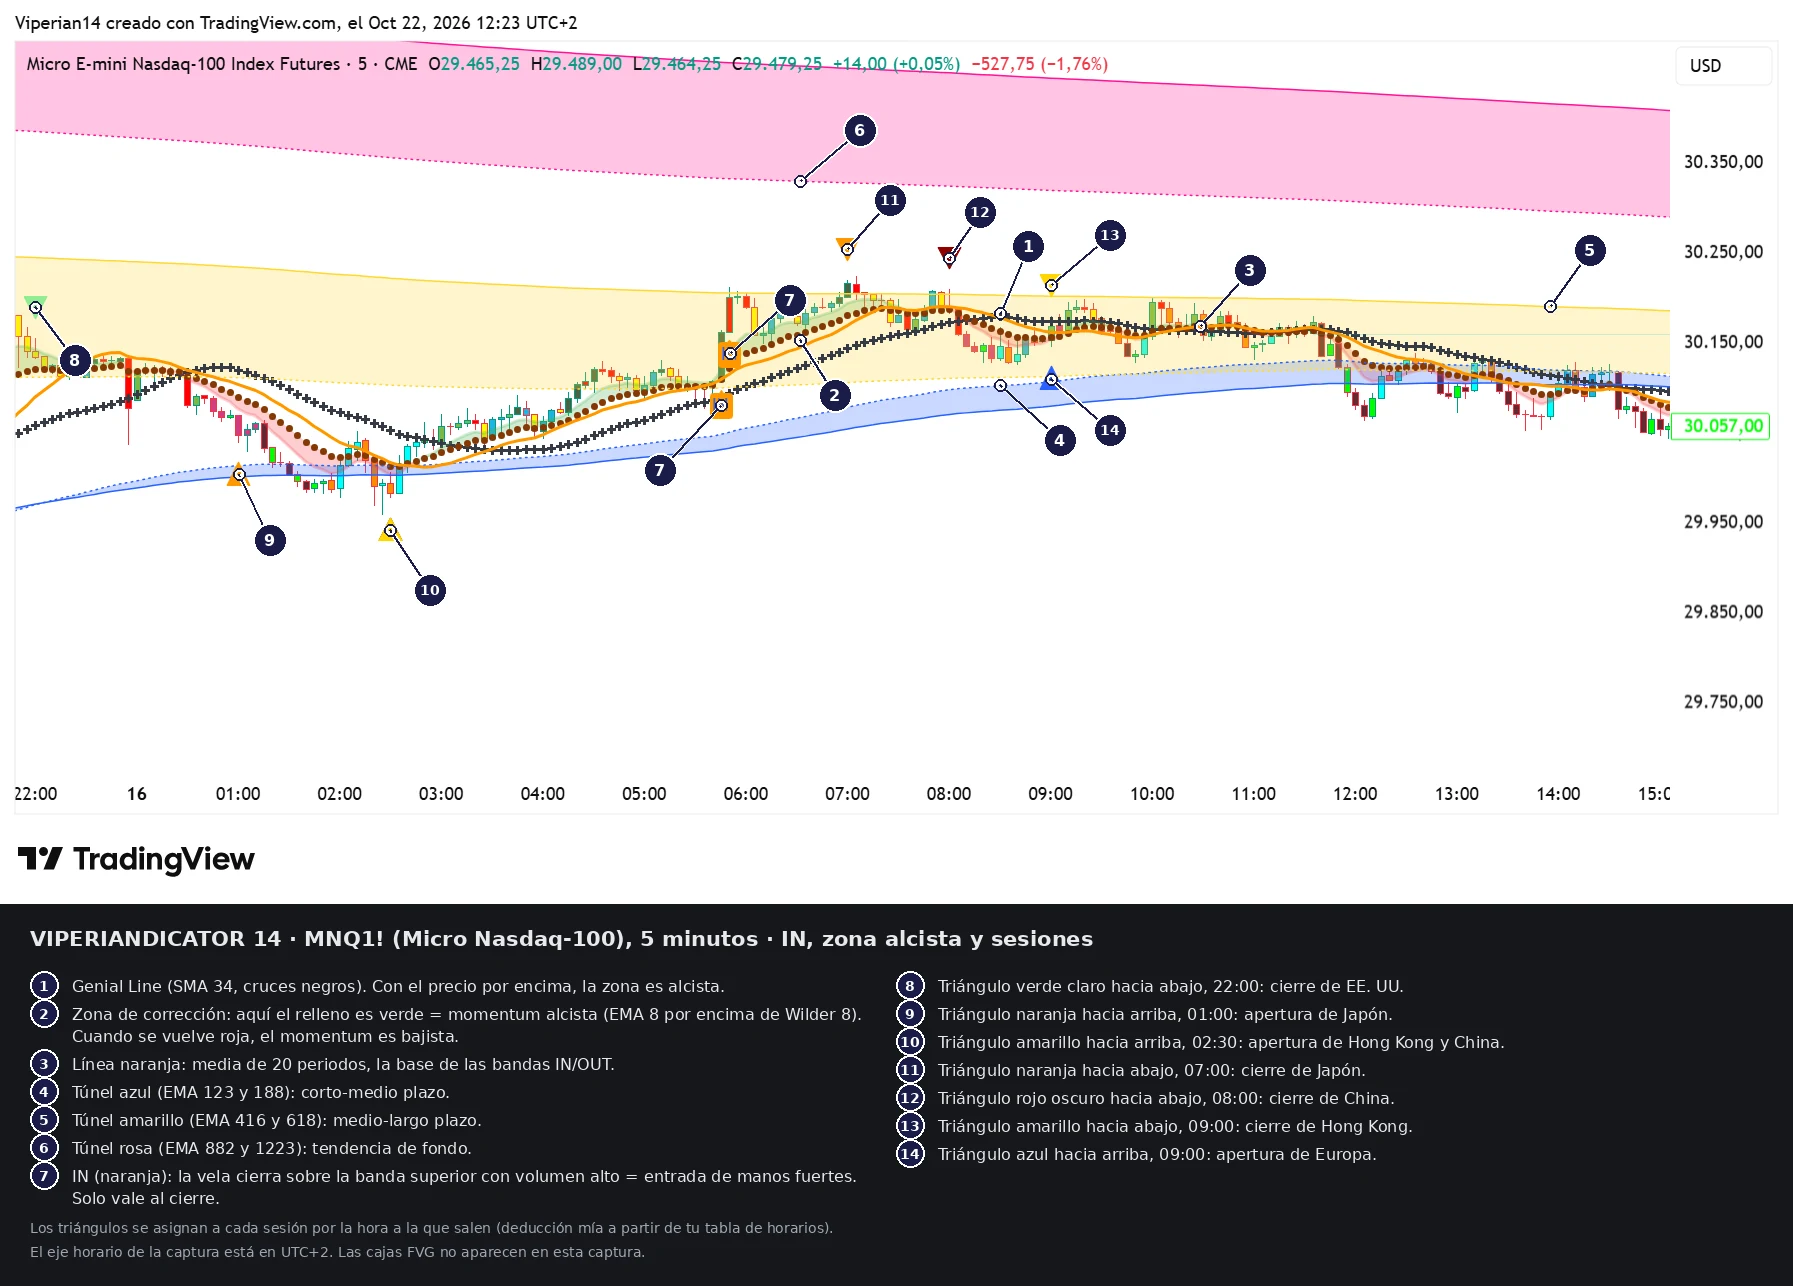
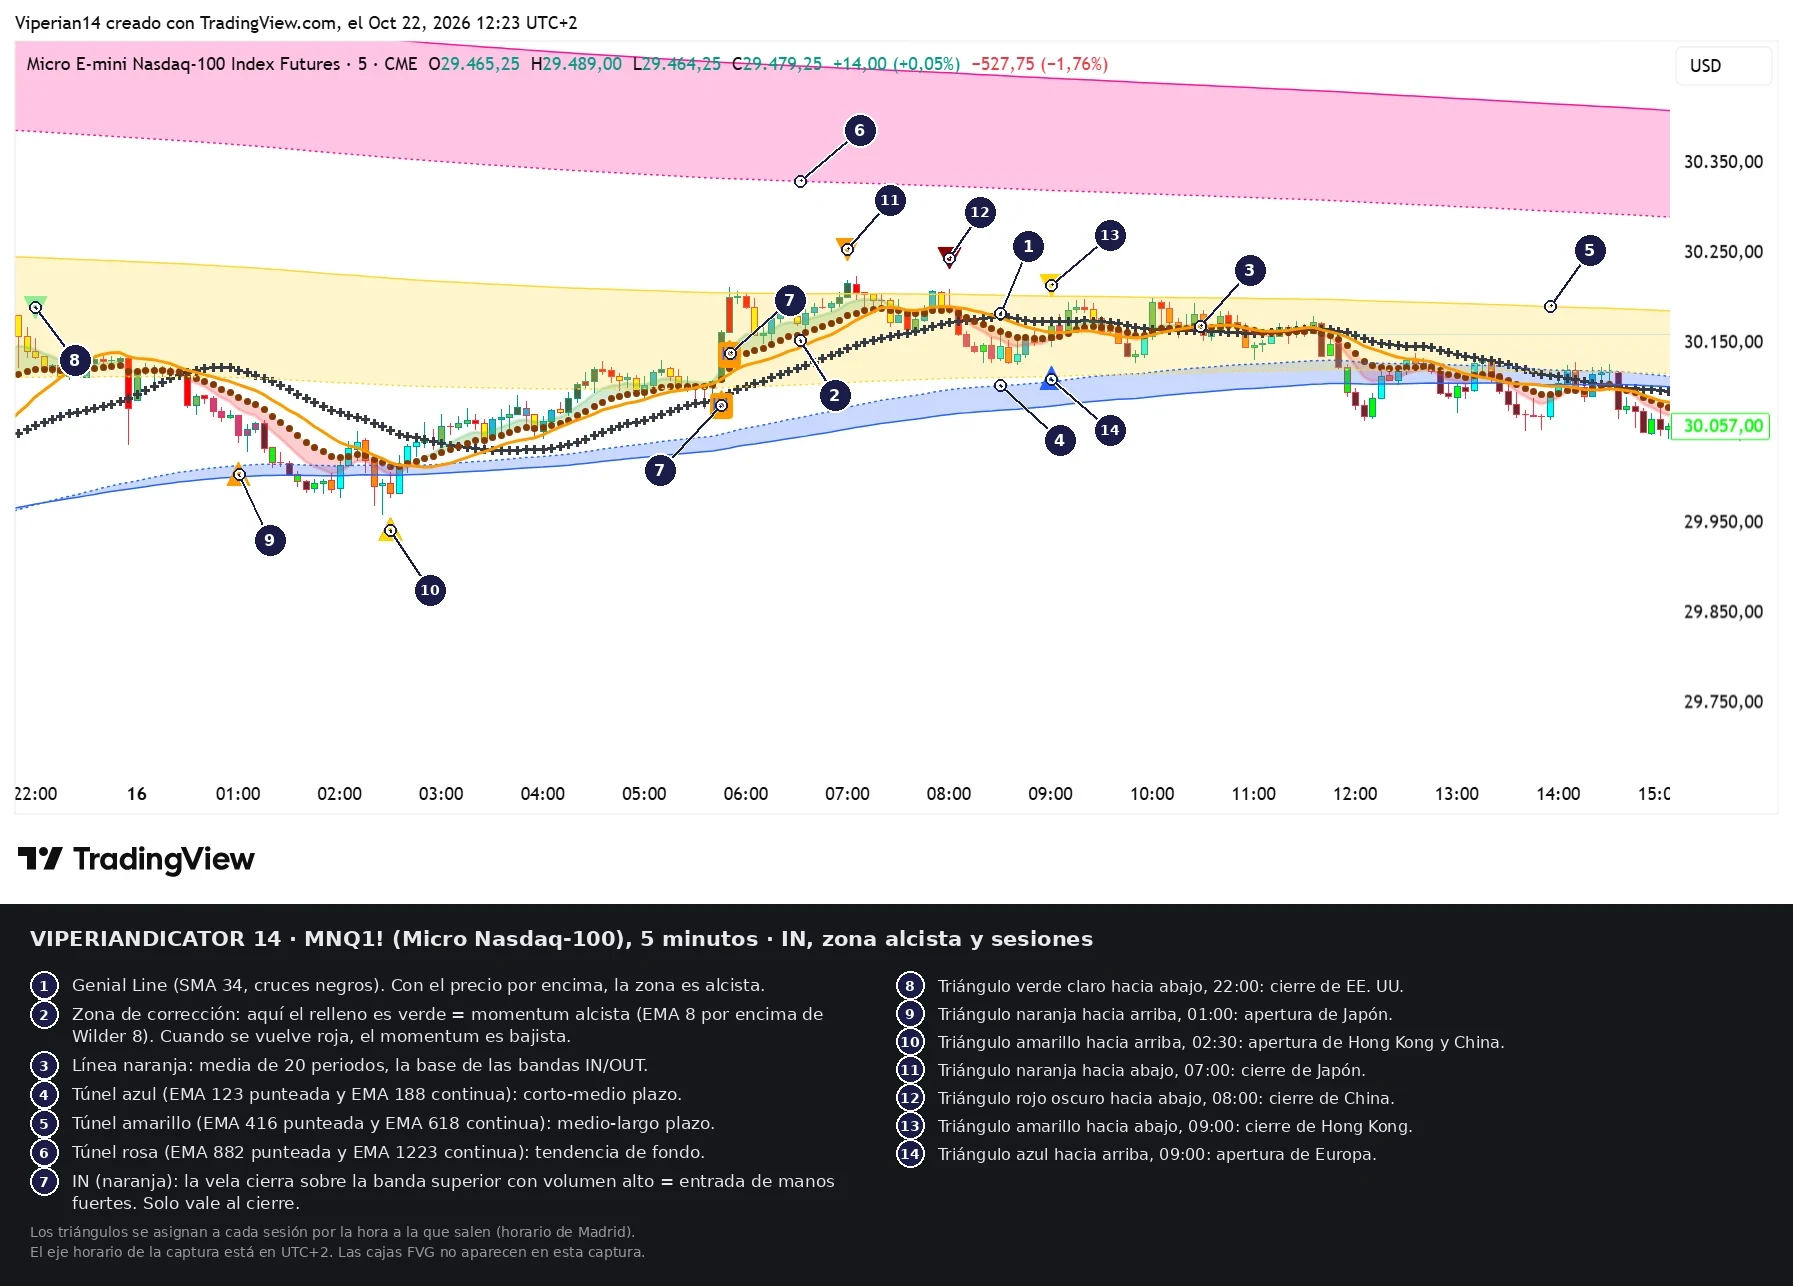
Guía del VIPERIANDICATOR14: túneles con EMA rápida punteada, FVG en cian, sin volumen de M5 y leyendas de las capturas corregidas (#81)
Claude-Session: https://claude.ai/code/session_01Xam4mPB3p5vRRJhZhnLMLw

Changed region(s): [[0.0, 0.7465, 0.4685, 0.9642]]

diff --git a/biblioteca/viper.html b/biblioteca/viper.html
@@ -9,7 +9,7 @@
 <li><strong>Huecos de precio (FVG).</strong></li>
 </ol>
 <p>Sirve para leer a la vez la dirección, la fuerza, los niveles y quién está moviendo el precio.</p>
-<p><strong>Importante:</strong> las velas de este indicador miden fuerza y momentum, no volumen. El volumen se mira aparte, en las velas de volumen de M5 como mínimo.</p>
+<p><strong>Importante:</strong> las velas de este indicador miden fuerza y momentum, no volumen.</p>
 <p>Vídeo explicativo del autor: <a href="https://www.youtube.com/watch?v=X0poBvo8HsI">https://www.youtube.com/watch?v=X0poBvo8HsI</a></p>
 <hr />
 <h2>1. Doc 4in1: tendencia, corrección y niveles</h2>
@@ -20,7 +20,7 @@
 <h3>Apertura diaria</h3>
 <p>Línea <i class="sw" style="background:#78b946"></i>verde «Open Diario» en el precio de apertura del día. Se marca a las 8:00 (hora de España) en índices europeos y a las 14:00 en índices americanos y EURUSD. Es una referencia intradía.</p>
 <h3>Túneles Domenec</h3>
-<p>Tres túneles formados por seis medias exponenciales (EMA). El color del túnel y sus cruces dan la tendencia de fondo y las zonas de soporte y resistencia de largo plazo.</p>
+<p>Tres túneles formados por seis medias exponenciales (EMA). El color del túnel y sus cruces dan la tendencia de fondo y las zonas de soporte y resistencia de largo plazo. En cada túnel, la EMA rápida se dibuja con línea punteada y la lenta con línea continua, y el espacio entre las dos se rellena con el color del túnel.</p>
 <div class="tw"><table>
 <thead>
 <tr>
@@ -32,17 +32,17 @@
 <tbody>
 <tr>
 <td><i class="sw" style="background:#2962ff"></i>Azul</td>
-<td>EMA 123 y EMA 188</td>
+<td>EMA 123 (punteada) y EMA 188 (continua)</td>
 <td>El más cercano al precio. Marca la tendencia de corto-medio plazo y es el primer soporte o resistencia. Su estrangulamiento o cruce avisa de un cambio de tendencia.</td>
 </tr>
 <tr>
 <td><i class="sw" style="background:#fffa00"></i>Amarillo</td>
-<td>EMA 416 y EMA 618</td>
+<td>EMA 416 (punteada) y EMA 618 (continua)</td>
 <td>Tendencia de medio-largo plazo. Soporte o resistencia fuerte cuando el precio llega a él.</td>
 </tr>
 <tr>
 <td><i class="sw" style="background:#ff1493"></i>Rosa</td>
-<td>EMA 882 y EMA 1223</td>
+<td>EMA 882 (punteada) y EMA 1223 (continua)</td>
 <td>Tendencia de fondo. Es el más lento y el que define el mercado a largo plazo.</td>
 </tr>
 </tbody>
@@ -164,7 +164,7 @@
 <ul>
 <li>La señal se repinta durante la vela: <strong>solo vale al cierre</strong>.</li>
 <li>Se pueden activar alertas de IN y de OUT, pero hay que confirmarlas con la vela cerrada.</li>
-<li>Si el activo no da datos de volumen, el indicador no bloquea la señal y no valida nada con el volumen, así que hay que mirar la vela de volumen real aparte.</li>
+<li>Si el activo no da datos de volumen, el indicador no bloquea la señal y no valida nada con el volumen: la señal sale solo por el cierre fuera de la banda.</li>
 </ul>
 <hr />
 <h2>4. FVG (huecos de precio)</h2>
@@ -175,7 +175,7 @@
 <li><strong>FVG bajista:</strong> el máximo de la vela actual queda por debajo del mínimo de la vela de dos barras atrás.</li>
 </ul>
 <h3>Cómo se dibuja</h3>
-<p>Como una caja gris que se extiende a la derecha. Cuanto más grande es el hueco respecto al ATR de 100 periodos, más oscura es la caja y más peso tiene.</p>
+<p>Como una caja cian (celeste) semitransparente que se extiende a la derecha. Cuanto más grande es el hueco respecto al ATR de 100 periodos, más intenso es el cian y más peso tiene.</p>
 <h3>Mitigación</h3>
 <p>La caja se va recortando a medida que el precio la rellena, al cierre de cada vela. Desaparece cuando el precio cubre el 50 % del hueco (configurable) o cuando lo consume entero. Un hueco nuevo contenido dentro de otro del mismo tipo no se dibuja.</p>
 <h3>Alertas</h3>
@@ -209,11 +209,11 @@
 </tr>
 <tr>
 <td>H4 y H1</td>
-<td>Análisis y contexto: dirección, zona de corrección, Genial Line, túneles y sus cruces. En swing, H1 es el gatillo con confirmación en H4</td>
+<td>Análisis y contexto: dirección, zona de corrección, Genial Line, túneles y sus cruces. En swing, H1 es el gatillo y H4 da el contexto y el filtro de salida</td>
 </tr>
 <tr>
 <td>M15, M5 y M1</td>
-<td>Gatillo en intradía y scalping. M1 afina el timing, pero no decide solo. El volumen real se valida en M5 como mínimo</td>
+<td>Gatillo en intradía y scalping. M1 afina el timing, pero no decide solo</td>
 </tr>
 </tbody>
 </table></div>
